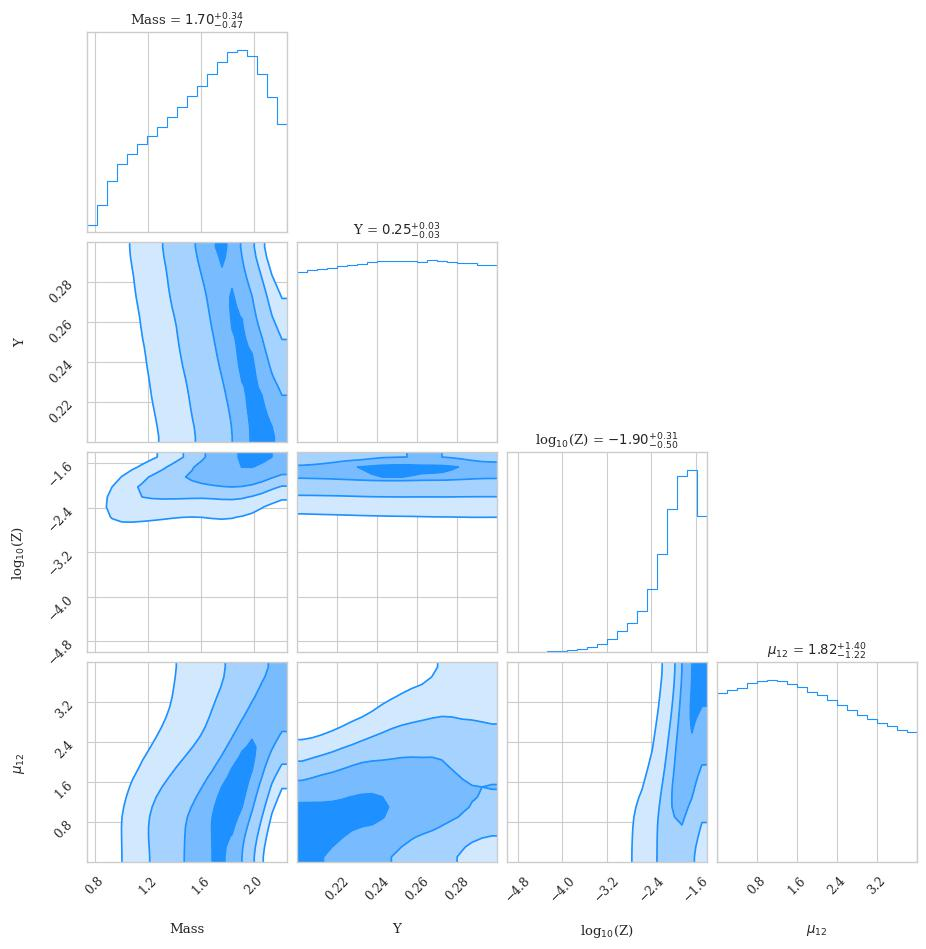
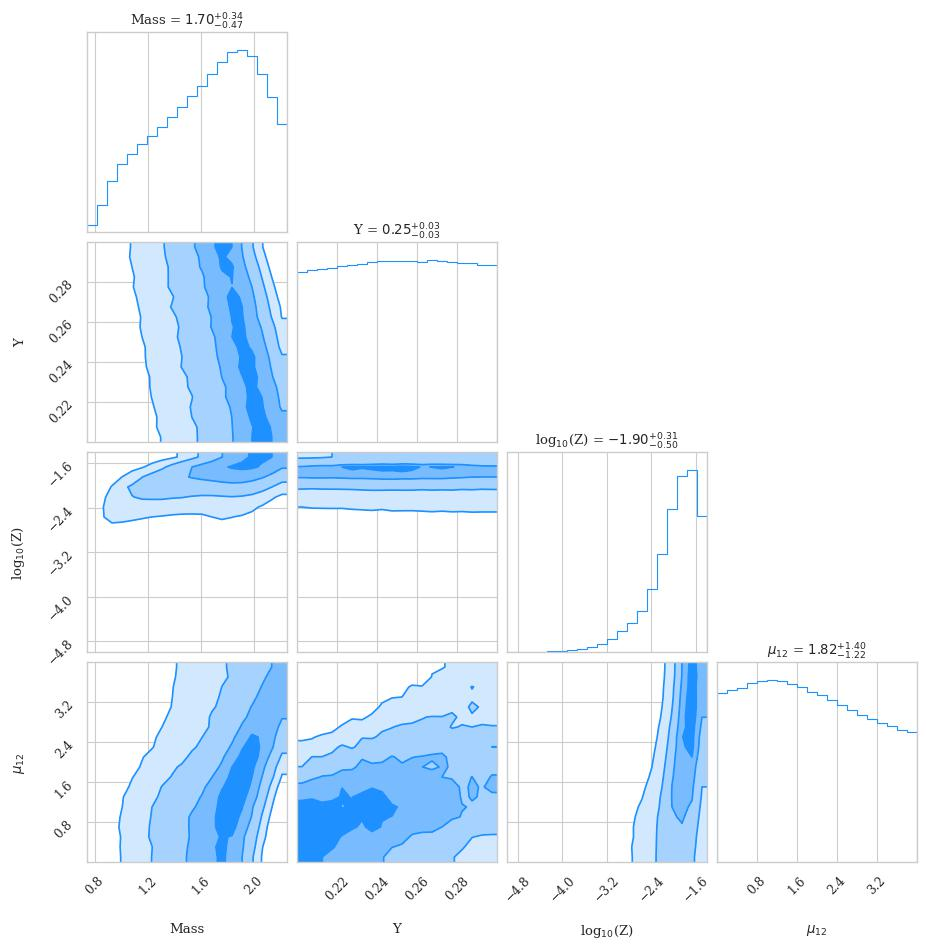
redo without smoothing

diff --git a/mcmc/analyzeMCMC.py b/mcmc/analyzeMCMC.py
@@ -21,7 +21,7 @@ def plotCorner(chain):
                         labels=['Mass', 'Y', r'log$_{10}$(Z)', r'$\mu_{12}$'],
                         show_titles=True,
                         color='dodgerblue',
-                        smooth=True,
+                        smooth=False,
                         plot_datapoints=False,
                         fill_contours=True,
                         title_quantiles=[0.68])
@@ -81,7 +81,32 @@ def CI(chain, alpha):
     with open(f'CI_{alpha}.txt', 'w') as f:
         f.write(forFile)
     
-    
+def plot2Dhists(chain):
+    '''
+    Plot 2D histograms for mu vs. other parameters
+    '''
+    labels = ['M', 'Y', 'Z']
+    mu = chain.T[-1]
+    for col, label in zip(chain.T[:-1], labels):
+        print(len(mu), len(col))
+        fig, ax = plt.subplots(figsize=(8,6))
+        ax.hist2d(col, mu, bins=20)
+        ax.set_xlabel(label)
+        ax.set_ylabel(r'$\mu_{12}$')
+        fig.savefig(f"mu_vs_{label}_2dhist.jpeg", bbox_inches='tight', transparent=False)
+
+def plotHists(chain):
+    '''
+    Plot histograms for input parameters
+    '''
+    labels = ['M', 'Y', 'Z', 'mu12']
+    for col, label in zip(chain.T, labels):
+        fig, ax = plt.subplots(figsize=(8,6))
+        ax.hist(col, bins=20)
+        ax.set_xlabel(label)
+        ax.set_ylabel('N')
+        fig.savefig(f"{label}_hist.jpeg", bbox_inches='tight', transparent=False)
+
         
 def main():
 
@@ -94,6 +119,8 @@ def main():
     testGaussian(chain)
     CI(chain, 0.68)
     CI(chain, 0.995)
+    plot2Dhists(chain)
+    plotHists(chain)
         
 if __name__ == '__main__':
     sys.exit(main())
